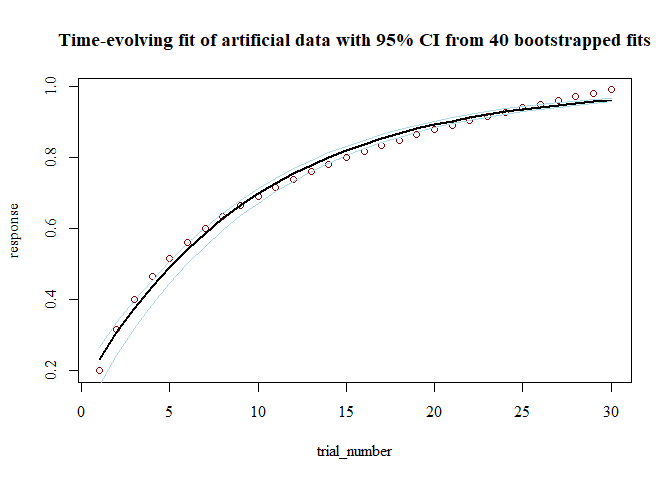
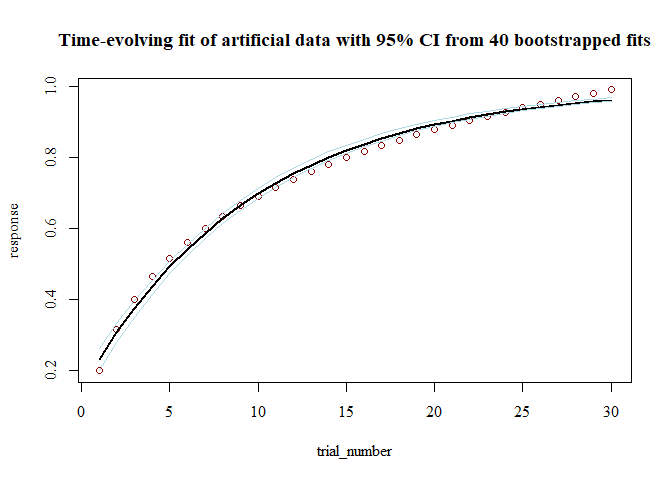
update README

diff --git a/README.md b/README.md
@@ -73,13 +73,13 @@ summary(mod_boot)
     ## 
     ## >> Fit Values:
     ##        Estimate  Q025  Q975 pseudoSE
-    ## pAsym     0.999 0.999 1.000    0.000
-    ## pRate     2.735 2.665 2.797    0.034
-    ## pStart    0.231 0.159 0.265    0.027
+    ## pAsym     1.000 0.999 1.000    0.000
+    ## pRate     2.739 2.641 2.790    0.038
+    ## pStart    0.231 0.202 0.262    0.015
     ## 
     ## >> Goodness-of-fit:
     ##                err  nullErr nPars nObs      BIC  nullBIC    deltaBIC
-    ## bernoulli 13.42357 16.83409     3   30 37.05074 37.06937 -0.01863453
+    ## bernoulli 13.42316 16.83409     3   30 37.04991 37.06937 -0.01945741
     ## 
     ## >> Test of change in nonindependence:
     ##                          rawSpearman modelConditionalSpearman
@@ -94,11 +94,11 @@ summary(mod_boot)
     ## >> Timepoint at which resampled estimates diverge from timepoint 1, with Cohen's d>1: 2 
     ## 
     ## >> Bootstrapped parameter correlations:
-    ##         pAsym pStart  pRate    err
-    ## pAsym   1.000 -0.160 -0.061 -0.259
-    ## pStart -0.160  1.000  0.394  0.417
-    ## pRate  -0.061  0.394  1.000 -0.077
-    ## err    -0.259  0.417 -0.077  1.000
+    ##         pAsym pStart pRate    err
+    ## pAsym   1.000  0.038 0.072 -0.182
+    ## pStart  0.038  1.000 0.539  0.574
+    ## pRate   0.072  0.539 1.000  0.208
+    ## err    -0.182  0.574 0.208  1.000
 
 Fitting multiple models
 =======================
@@ -134,16 +134,16 @@ summary(mod_4group)
     ## >> Call: response ~ ((pAsym) + ((pStart) - (pAsym)) * 2^((1 - trial_number)/(2^(pRate))))
     ## 
     ## >> Overall effects:
-    ##             pAsym     pStart     pRate
-    ## mean   0.14920550 0.01640607 3.8334270
-    ## stdErr 0.03934491 0.01060208 0.0242354
+    ##             pAsym     pStart      pRate
+    ## mean   0.14925673 0.01636549 3.83354754
+    ## stdErr 0.03934977 0.01059382 0.02427818
     ## 
     ##                 err    nullErr nPars nObs     Fval         Pval   Rsquared
-    ## mean   3.006008e-04 0.03071614     3   30 1691.856 1.110223e-16 0.97598373
-    ## stdErr 6.862637e-05 0.01187769     0    0  653.269 1.110223e-16 0.01661285
-    ##                BIC    nullBIC   deltaBIC  linkFun errFun changeFun converged
-    ## mean   -337.326317 -211.91820 -125.40812 identity    ols      expo         1
-    ## stdErr    6.543702   14.35328   19.25993 identity    ols      expo         0
+    ## mean   3.005872e-04 0.03071614     3   30 1691.822 1.110223e-16 0.97598433
+    ## stdErr 6.863276e-05 0.01187769     0    0  653.144 1.110223e-16 0.01661368
+    ##               BIC    nullBIC   deltaBIC  linkFun errFun changeFun converged
+    ## mean   -337.32788 -211.91820 -125.40968 identity    ols      expo         1
+    ## stdErr    6.54363   14.35328   19.25928 identity    ols      expo         0
     ##        pValSpearmanChange
     ## mean                    0
     ## stdErr                  0
@@ -154,9 +154,9 @@ summary(mod_4group)
     ## >> Parameter Pearson product-moment correlations:
 
     ##         pAsym pStart  pRate
-    ## pAsym   1.000  1.000 -0.758
+    ## pAsym   1.000  1.000 -0.756
     ## pStart  1.000  1.000 -0.764
-    ## pRate  -0.758 -0.764  1.000
+    ## pRate  -0.756 -0.764  1.000
 
 Using a more typical regression framework
 =========================================
@@ -168,7 +168,7 @@ mod_lm <- TElm(response~trial_number,dat_simple,timeVar = 'trial_number')
 
 plot(mod_simple)
 
-lines(dat_simple$trial_number,fitted(mod_lm),col='blue')
+lines(dat_simple$trial_number,fitted(mod_lm),col='blue',lty=2)
 ```
 
 ![](README_files/figure-markdown_github/TElm-1.png)
@@ -177,7 +177,7 @@ TElm parameter estimates:
 
 |  X.Intercept.|  trial\_number|   rate|
 |-------------:|--------------:|------:|
-|         3.521|         -2.653|  2.865|
+|         3.531|         -2.657|  2.883|
 
 TEfit parameter estimates:
 
@@ -190,5 +190,5 @@ Note that `TEfit` provides start and asymptote parameters directly, while `TElm`
 Additional principles guiding the development of **TEfits**:
 ============================================================
 
--   Reliance only on base R (dependencies are few and optional: **psych**, **MASS**, **brms**, **lme4**)
+-   Reliance primarily on base R (dependencies are few and optional: **psych**, **MASS**, **brms**, **lme4**)
 -   Good things come to those who wait: Speed is nice, but robustness is better.
